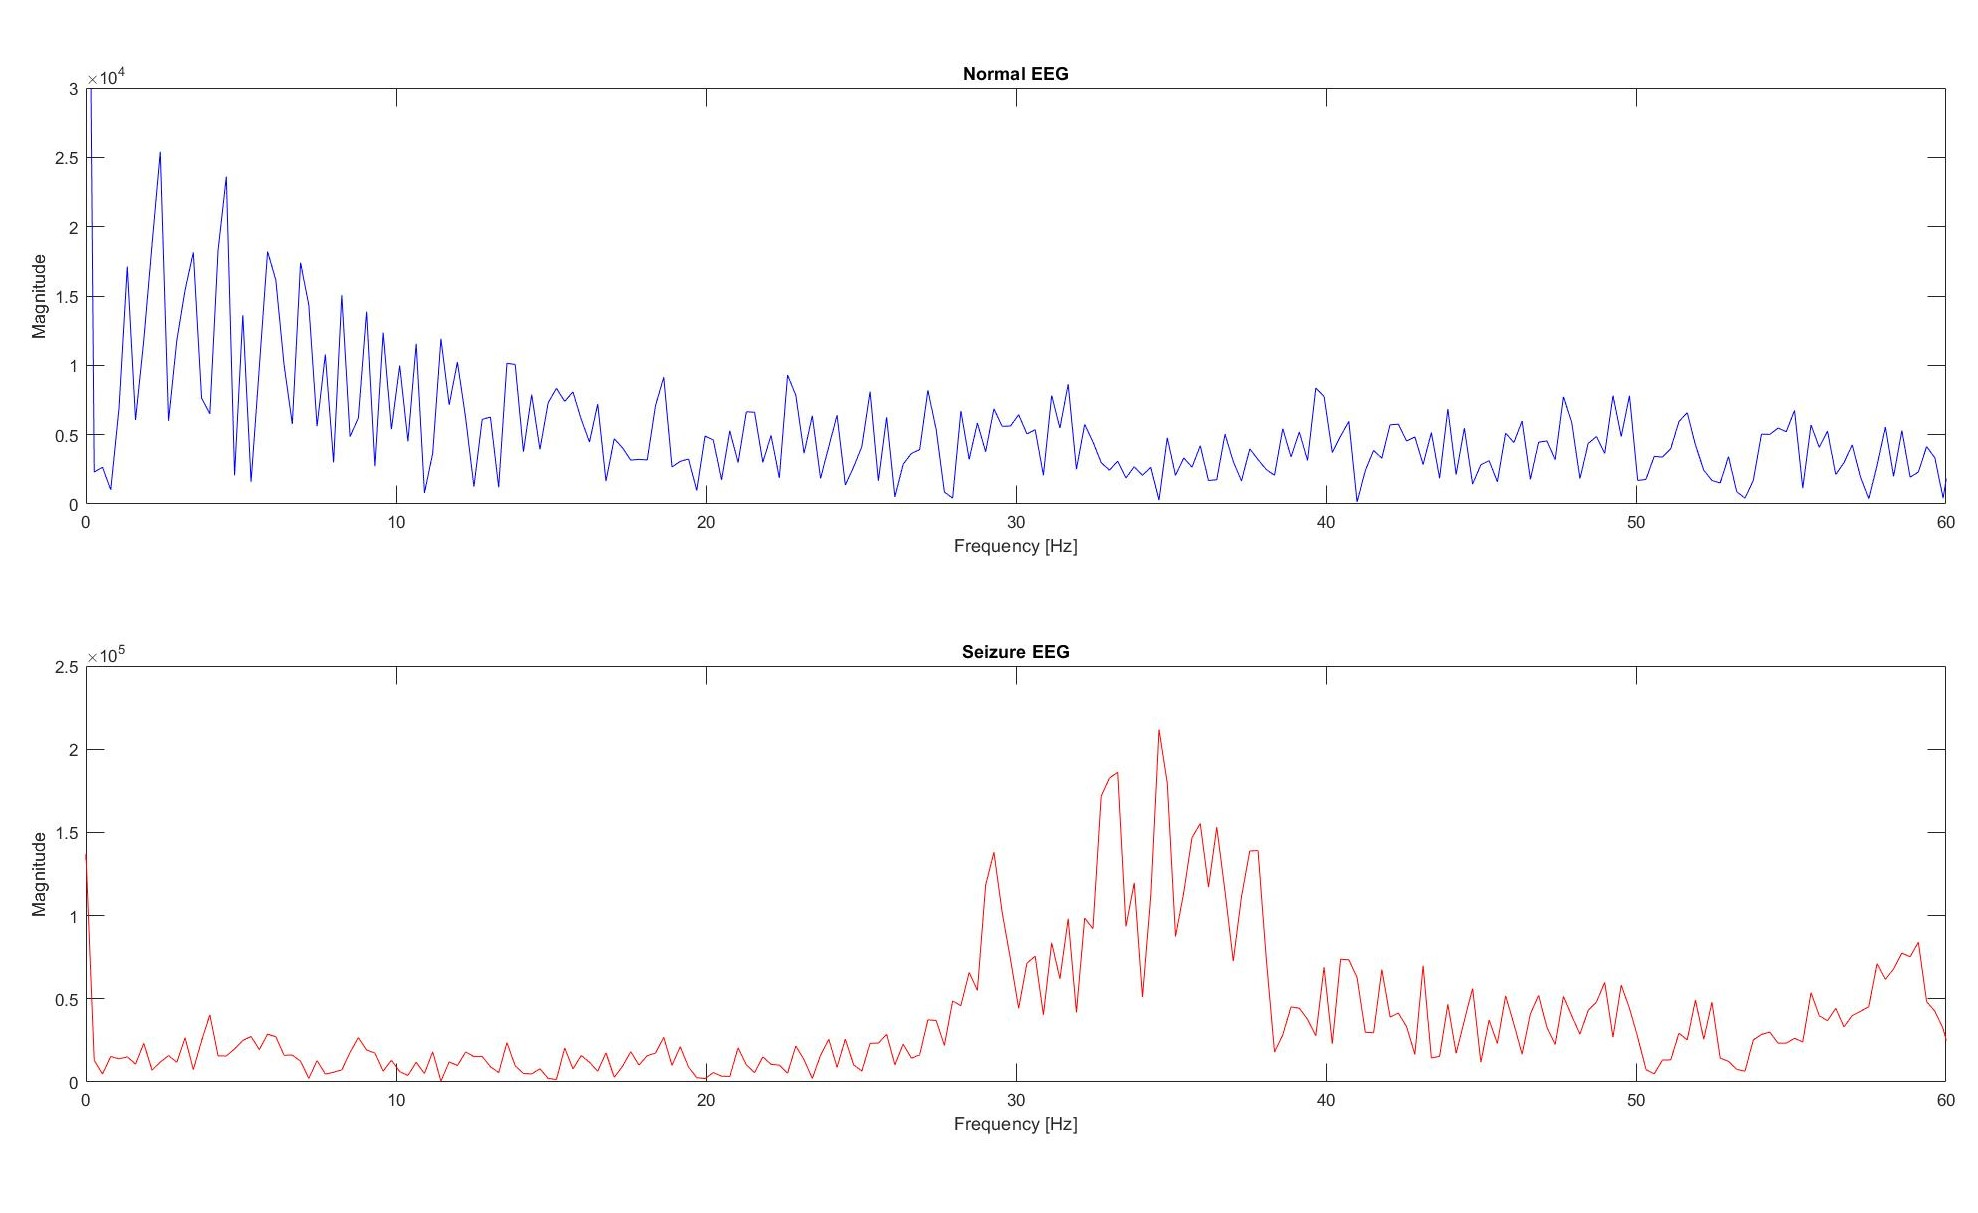
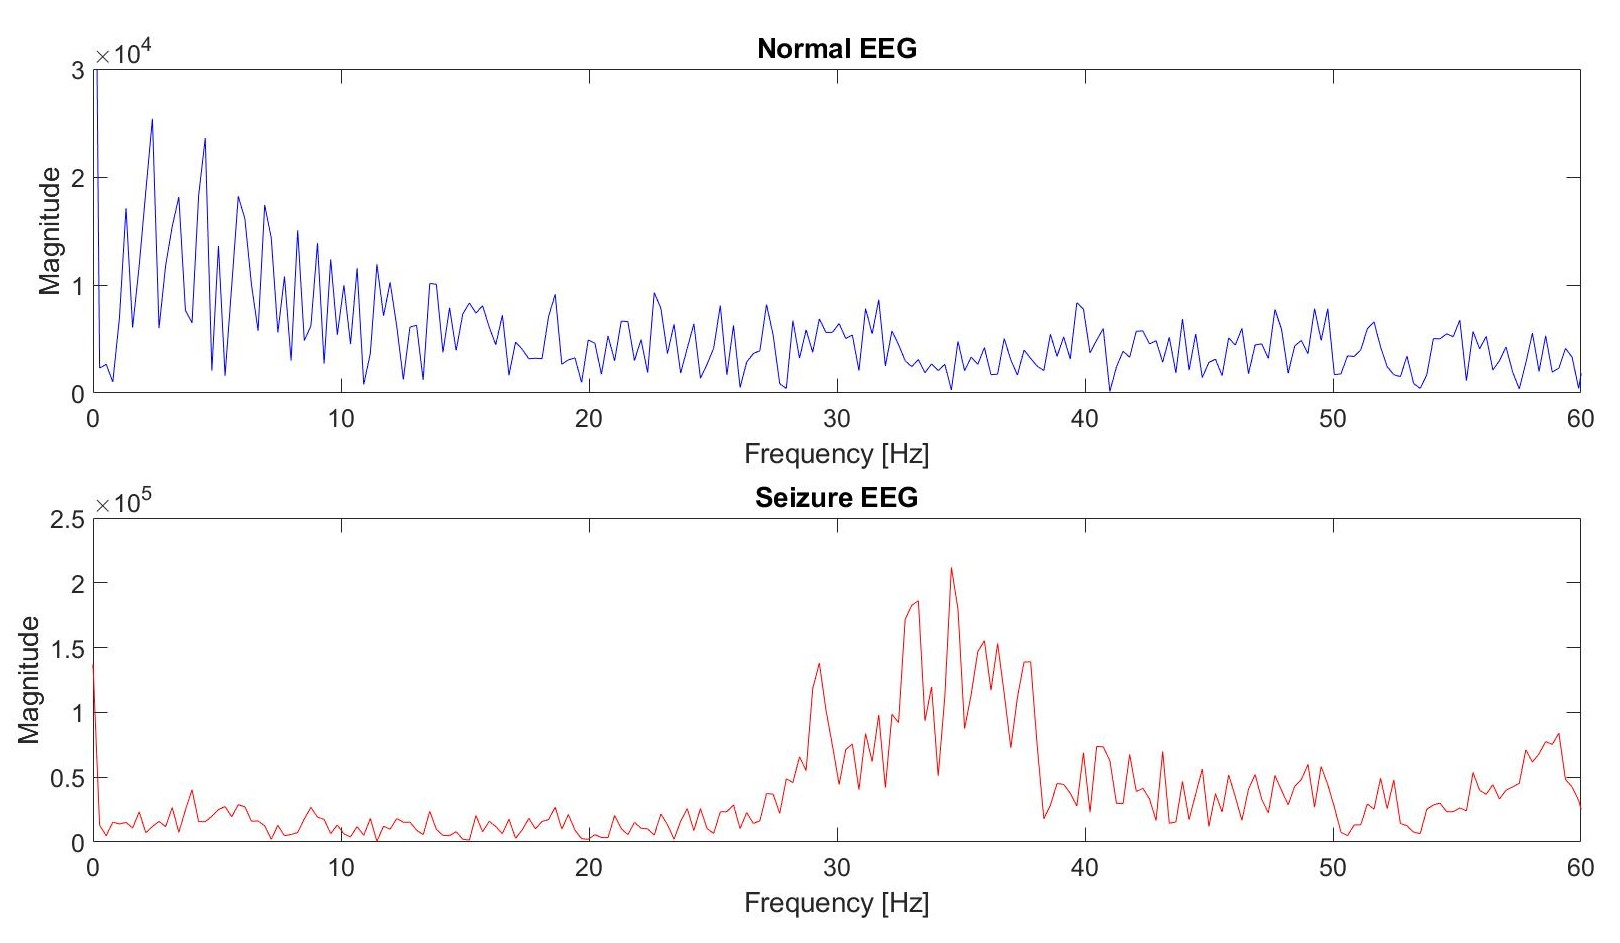
Add new comparison plot with increased font

diff --git a/EEG_Algorithm.m b/EEG_Algorithm.m
@@ -1,4 +1,3 @@
-<<<<<<< HEAD
 clear all
 close all
 
@@ -189,7 +188,6 @@ accuracy = counter / length(test_weights(:,1)) * 100
 
 % NEXT STEPS
 %  - only consider a range of frequencies
-=======
 clear all
 close all
 
@@ -380,5 +378,4 @@ accuracy = counter / length(test_weights(:,1)) * 100
 
 % NEXT STEPS
 %  - only consider a range of frequencies
->>>>>>> 50204d487baa94569826b69179032cfed9816fbe
 %  - combination of magnitude and frequency
